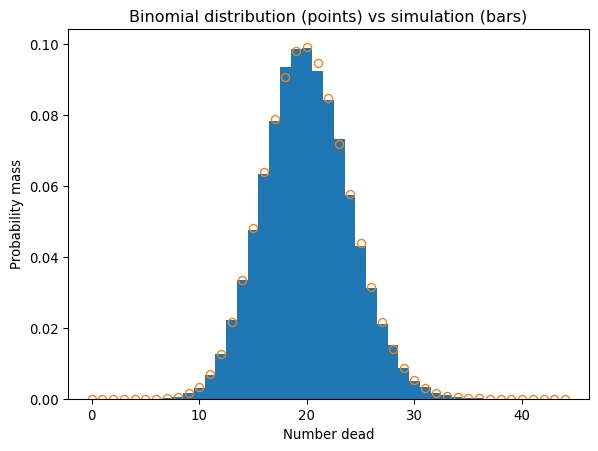
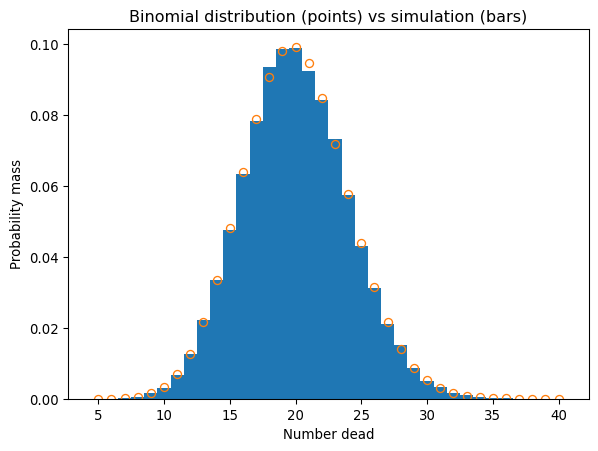
Use explicit min/max range for theoretical exponential

diff --git a/03_3_code_tue_ibm_emrgnt_bern_binm.md b/03_3_code_tue_ibm_emrgnt_bern_binm.md
@@ -71,12 +71,11 @@ print(sum(np.logical_not(alive))) #number dead
     85
     15
 
-### Investigate the stochastic process
+### Package IBM in a function
 
-To investigate this stochastic process, we’ll simulate the
-individual-based model multiple times.
-
-First, we’ll package the individual-based model into a function.
+To do a simulation study, we want a nice tidy package for the model so
+we can run it repeatedly. We also need to ensure the RNG is handled
+appropriately to update its state.
 
 ``` python
 def death_IBM(N, p_d, I_state):
@@ -105,8 +104,11 @@ print(sum(alive))
      1 1 1 1 0 1 1 0 1 1 1 1 1 1 1 1 0 1 0 1 1 1 1 0 1 1]
     86
 
-Then simulate the IBM repeatedly to get a sense of how variable the
-biological process is and obtain its distribution.
+### Simulate IBM repeatedly
+
+To investigate this stochastic process, we simulate the individual-based
+model repeatedly to get a sense of how variable the biological process
+is and obtain its distribution.
 
 ``` python
 U, I_state = rand_unif(1, seed=924505)
@@ -265,7 +267,7 @@ Now we can plot the theoretical PMF for the binomial distribution
 against the outcome of the individual-based simulations.
 
 ``` python
-X = np.arange(0, 45)
+X = np.arange(np.min(N_dead), np.max(N_dead)+1)
 pmf = stats.binom.pmf(X, N, p_d)
 plt.plot(X, pmf, marker='o', linestyle='none', fillstyle='none')
 plt.title("Binomial distribution (points) vs simulation (bars)")
